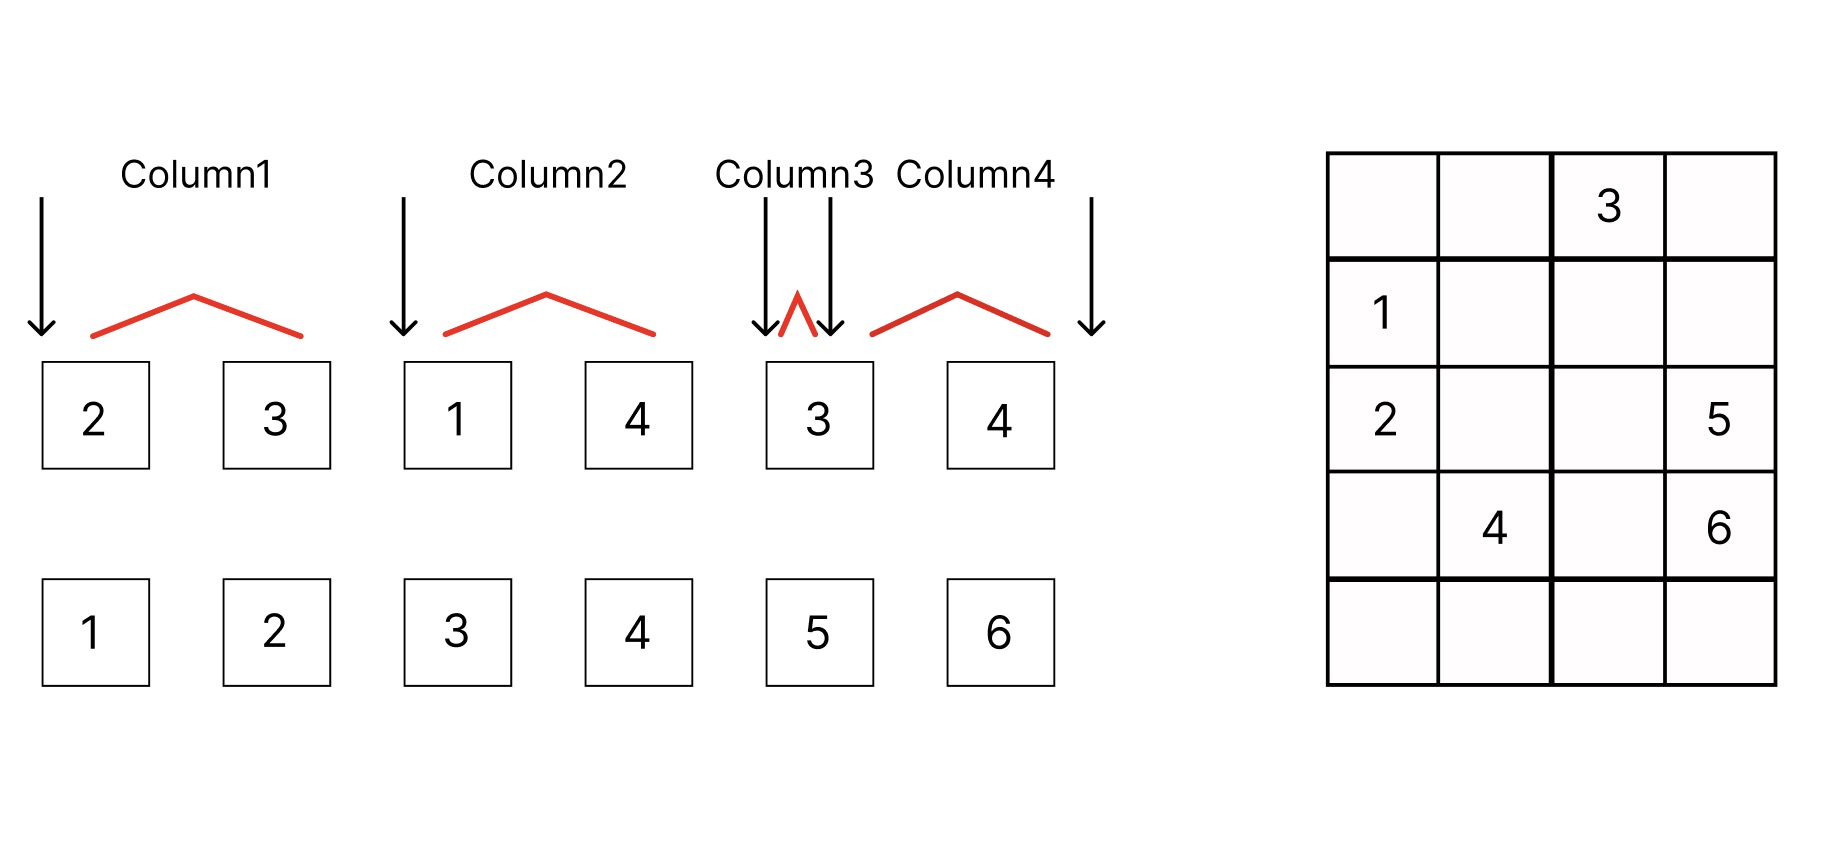
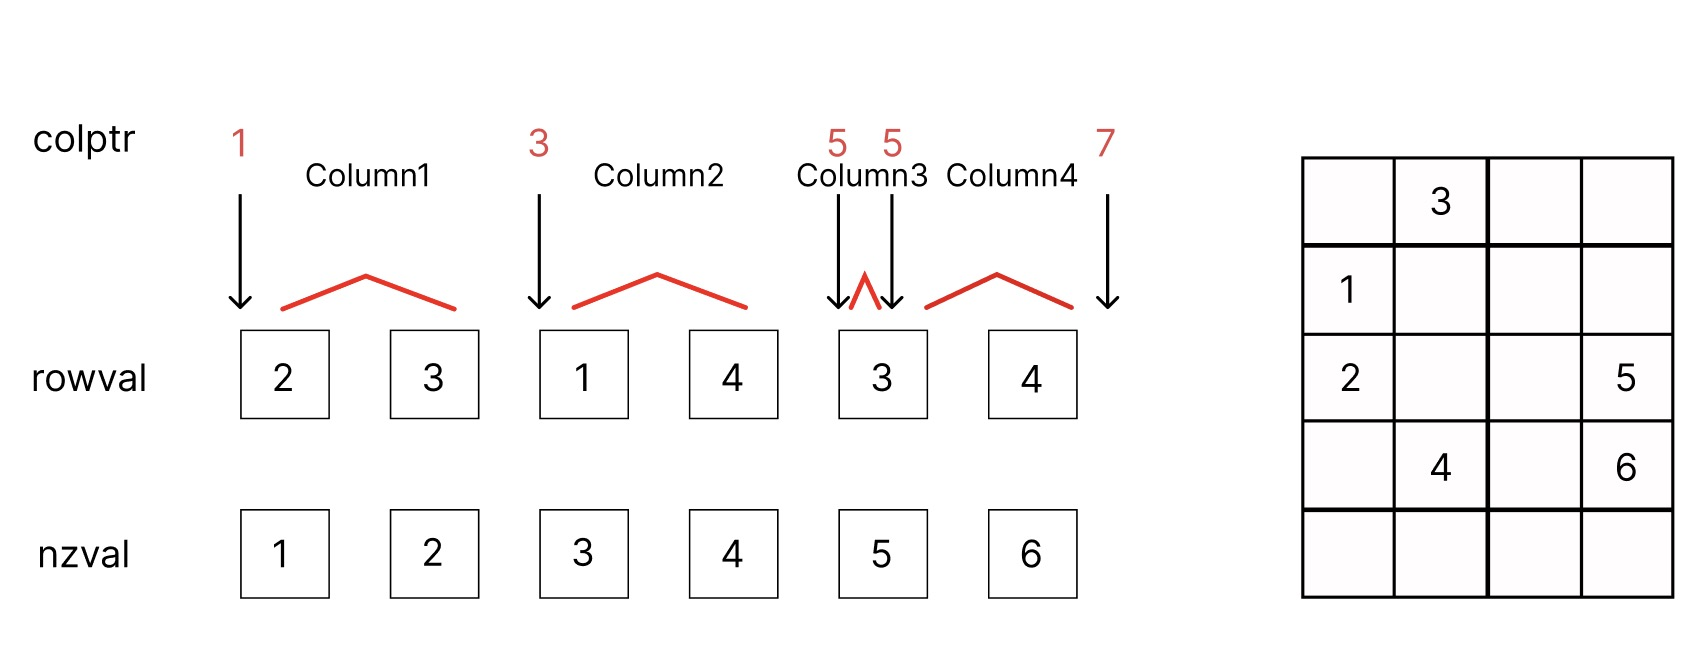
fix sparse matrix code

diff --git a/docs/src/chap3/sparse.md b/docs/src/chap3/sparse.md
@@ -123,19 +123,33 @@ Base.size(A::CSCMatrix, i::Int) = getindex((A.m, A.n), i)
 nnz(csc::CSCMatrix) = length(csc.nzval)
 
 # convert a COO matrix to a CSC matrix
-function CSCMatrix(coo::COOMatrix)
+function CSCMatrix(coo::COOMatrix{Tv, Ti}) where {Tv, Ti}
     m, n = size(coo)
     # sort the COO matrix by column
     order = sortperm(1:nnz(coo); by=i->coo.rowval[i] + m * (coo.colval[i]-1))
-    colval, rowval, nzval = coo.colval[order], coo.rowval[order], coo.nzval[order]
-    colptr = ones(Int, n+1)
-    ptr = 1
-    for j in 1:n
-        while ptr <= length(colval) && colval[ptr] == j
-            ptr += 1
+    colptr, rowval, nzval = similar(coo.rowval, n+1), similar(coo.rowval), similar(coo.nzval)
+    k = 0
+    ipre, jpre = 0, 0
+    colptr[1] = 1
+    for idx in order
+        i, j, v = coo.rowval[idx], coo.colval[idx], coo.nzval[idx]
+        # values with the same indices are accumulated
+        if i == ipre && j == jpre
+            nzval[k] += v
+        else
+            k += 1
+            if j != jpre
+                # a new column starts
+                colptr[jpre+1:j+1] .= k
+            end
+            rowval[k] = i
+            nzval[k] = v
+            ipre, jpre = i, j
         end
-        colptr[j+1] = ptr
     end
+    colptr[jpre+1:end] .= k + 1
+    resize!(rowval, k)
+    resize!(nzval, k)
     return CSCMatrix(m, n, colptr, rowval, nzval)
 end
 
@@ -172,7 +186,8 @@ nzrange(A::CSCMatrix, j::Int) = A.colptr[j]:A.colptr[j+1]-1
 ```
 
 ```@repl sparse
-csc_matrix = CSCMatrix(stiffmatrix)
+coo_matrix = COOMatrix(5, 4, [2, 3, 1, 4, 3, 4], [1, 1, 2, 2, 4, 4], [1, 2, 3, 4, 5, 6])
+csc_matrix = CSCMatrix(coo_matrix)
 ```
 
 The `csc_matrix` has type `CSCMatrix`, which contains 5 fields
@@ -204,7 +219,8 @@ csc_matrix.rowval[nzrange(csc_matrix, 3)] # or equivalently, we can use `nzrange
 Multiplying two CSC matrices is much faster than multiplying two COO matrices. The time complexity of multiplying two CSC matrices $A$ and $B$ is $O({\rm nnz}(A){\rm nnz}(B)/n)$.
 
 ```@repl sparse
-@test Matrix(csc_matrix)^2 ≈ csc_matrix * csc_matrix
+csc_matrix2 = CSCMatrix(COOMatrix(coo_matrix.n, coo_matrix.m, coo_matrix.rowval, coo_matrix.colval, coo_matrix.nzval))  # transpose
+@test Matrix(csc_matrix) * Matrix(csc_matrix2) ≈ csc_matrix * csc_matrix2
 ```
 
 !!! note "Question"
